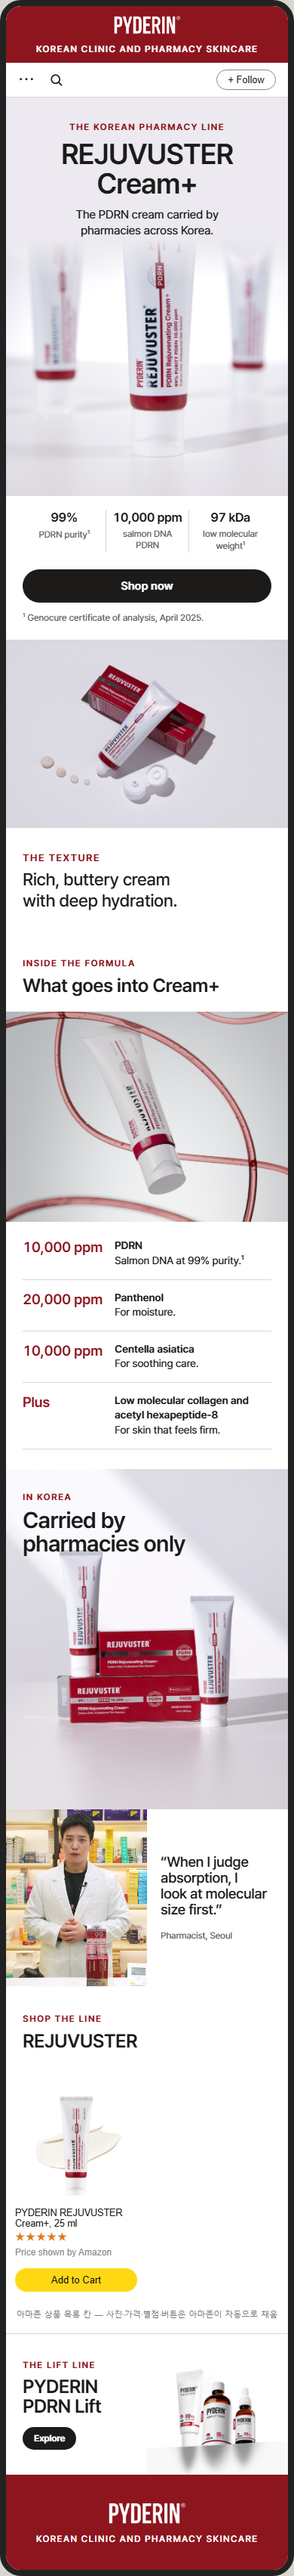
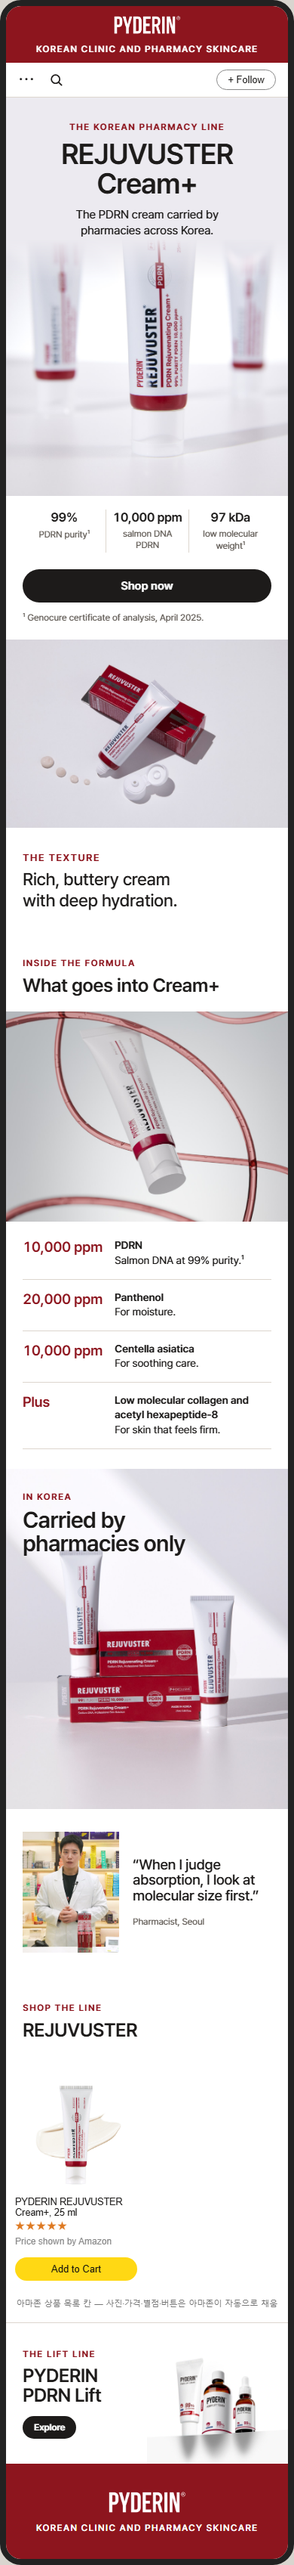
REJUVUSTER 약사 한마디 칸에 여백

diff --git a/index.html b/index.html
@@ -474,7 +474,7 @@
     </div></div>
   <div class="sec full" data-t="이미지"><img src="img/v3/rj-box.jpg" alt="" style="aspect-ratio:390/470;object-position:50% 100%">
     <div class="ov"><span class="eyebrow">In Korea</span><h3>Carried by<br>pharmacies only</h3></div></div>
-  <div class="sec feat" data-t="이미지"><img src="img/pick/p11.jpg" alt="" style="object-position:50% 15%"><div><b style="font-size:19px;font-weight:500;margin-top:0">“When I judge absorption, I look at molecular size first.”</b><span style="font-size:12px;color:var(--mute)">Pharmacist, Seoul</span></div></div>
+  <div class="sec feat" data-t="이미지" style="grid-template-columns:128px 1fr;gap:18px;padding:30px 22px;align-items:center"><img src="img/pick/p11.jpg" alt="" style="object-position:50% 15%"><div style="padding:0"><b style="font-size:19px;font-weight:500;margin-top:0">“When I judge absorption, I look at molecular size first.”</b><span style="font-size:12px;color:var(--mute)">Pharmacist, Seoul</span></div></div>
   <div class="sec white" data-t="이미지"><div class="title" style="padding-bottom:8px"><span class="eyebrow">Shop the line</span><h3>REJUVUSTER</h3></div></div>
   <div class="sec az" data-t="상품 목록(아마존)"><div class="grid"><div class="card"><img class="pk" src="img/m-rejuvuster.jpg" alt="">PYDERIN REJUVUSTER Cream+, 25 ml<br><span class="stars">★★★★★</span><span class="price">Price shown by Amazon</span><span class="buy">Add to Cart</span></div></div><div class="aznote">아마존 상품 목록 칸 — 사진·가격·별점·버튼은 아마존이 자동으로 채움</div></div>
   <a class="xt" data-t="이미지 1500×750" href="#pyderin"><div><span class="eyebrow">The Lift line</span><b>PYDERIN<br>PDRN Lift</b><u>Explore</u></div><img src="img/v3/lift-trio.jpg" alt="" style="object-position:55% 60%"></a>
